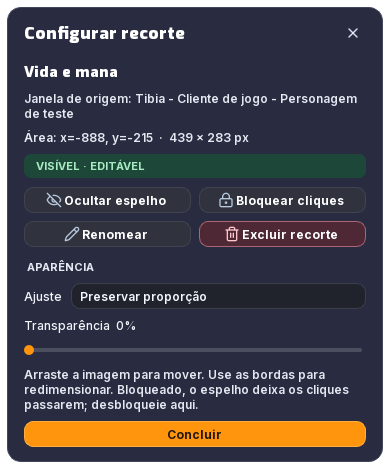
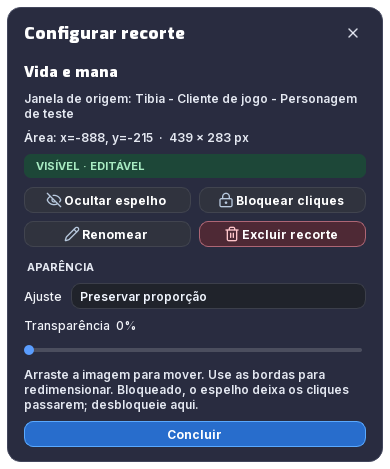
Switch interface accents to blue

Changed region(s): [[0.0615, 0.8955, 0.9538, 0.9552], [0.0615, 0.7164, 0.0923, 0.7761]]

diff --git a/src/tibiaenhanced/ui/theme.py b/src/tibiaenhanced/ui/theme.py
@@ -19,7 +19,7 @@ def app_stylesheet(heading_family: str = "Exo", body_family: str = "Inter") -> s
     QLabel#sectionTitle {{ color: #e9f1ff; font-size: 11pt; }}
     QLabel#selectedTitle {{ color: #ffffff; font-size: 11pt; }}
     QLabel#timerTitle {{ color: #f5f8ff; font-size: 11pt; }}
-    QLabel#timerCountdown {{ color: #ffb454; font-size: 18pt; }}
+    QLabel#timerCountdown {{ color: #7bbcff; font-size: 18pt; }}
     QLabel#mutedText, QLabel#eyebrow {{ color: #e4e8f1; font-weight: 600; }}
     QLabel#eyebrow {{ font-size: 8pt; font-weight: 700; padding-top: 4px; }}
     QLabel#stateBadge {{ font-size: 8pt; font-weight: 700; padding: 5px 9px; }}
@@ -33,7 +33,7 @@ def app_stylesheet(heading_family: str = "Exo", body_family: str = "Inter") -> s
     QFrame#card, QFrame#timerCard {{
         background: #292c40; border: 1px solid #34374a; border-radius: 10px;
     }}
-    QFrame#timerCard {{ border-left: 3px solid #ff940d; }}
+    QFrame#timerCard {{ border-left: 3px solid #5aa9ff; }}
     QFrame#dialogSurface {{ background: #292c40; border: 1px solid #42465c; border-radius: 14px; }}
     QFrame#dialogBody, QFrame#dialogHeader {{ background: transparent; border: 0; }}
     QLabel#dialogTitle {{ color: #ffffff; font-family: "{heading_family}"; font-size: 13pt; font-weight: 900; }}
@@ -49,15 +49,15 @@ def app_stylesheet(heading_family: str = "Exo", body_family: str = "Inter") -> s
     }}
     QPushButton:hover, QToolButton:hover {{ background: #3d404d; border-color: #666978; }}
     QPushButton:pressed, QToolButton:pressed {{ background: #292c36; }}
-    QPushButton:focus, QToolButton:focus {{ border: 1px solid #ff940d; }}
+    QPushButton:focus, QToolButton:focus {{ border: 1px solid #78bcff; }}
     QPushButton:disabled, QToolButton:disabled {{
         color: #788da5; background: #1a283b; border-color: #2b3a4e;
     }}
     QPushButton#primaryButton {{
-        color: #21180d; background: #ff940d; border-color: #ffad40; font-weight: 700;
+        color: #ffffff; background: #286dcc; border-color: #5aa9ff; font-weight: 700;
     }}
-    QPushButton#primaryButton:hover {{ background: #ffac3d; }}
-    QPushButton#primaryButton:disabled {{ color: #637a89; background: #2c5868; border-color: #3b6a78; }}
+    QPushButton#primaryButton:hover {{ background: #327ee4; border-color: #8dc8ff; }}
+    QPushButton#primaryButton:disabled {{ color: #91a6c0; background: #304662; border-color: #3c5677; }}
     QPushButton#dangerButton {{ color: #ffffff; background: #4e2935; border-color: #ad6675; }}
     QPushButton#dangerButton:hover {{ background: #573241; border-color: #a95a69; }}
     QPushButton#chromeButton, QPushButton#chromeCloseButton {{
@@ -75,7 +75,7 @@ def app_stylesheet(heading_family: str = "Exo", body_family: str = "Inter") -> s
     QComboBox, QLineEdit, QSpinBox, QKeySequenceEdit {{ font-weight: 600; }}
     QSpinBox::up-button, QSpinBox::down-button {{ width: 0; border: 0; }}
     QComboBox:hover, QLineEdit:hover, QSpinBox:hover, QKeySequenceEdit:hover {{ border-color: #56718d; }}
-    QComboBox:focus, QLineEdit:focus, QSpinBox:focus, QKeySequenceEdit:focus {{ border: 1px solid #ff940d; }}
+    QComboBox:focus, QLineEdit:focus, QSpinBox:focus, QKeySequenceEdit:focus {{ border: 1px solid #78bcff; }}
     QComboBox:disabled, QLineEdit:disabled, QSpinBox:disabled {{ color: #7d90a6; background: #182536; }}
     QComboBox::drop-down {{ border: 0; width: 25px; }}
     QComboBox QAbstractItemView {{
@@ -87,16 +87,16 @@ def app_stylesheet(heading_family: str = "Exo", body_family: str = "Inter") -> s
         width: 16px; height: 16px; background: #101c2d;
         border: 1px solid #52708b; border-radius: 5px;
     }}
-    QCheckBox::indicator:hover {{ border-color: #ff940d; }}
-    QCheckBox::indicator:checked {{ background: #ff940d; border-color: #ffad40; }}
+    QCheckBox::indicator:hover {{ border-color: #78bcff; }}
+    QCheckBox::indicator:checked {{ background: #286dcc; border-color: #78bcff; }}
 
     QSlider {{ background: transparent; min-height: 16px; max-height: 16px; }}
     QSlider::groove:horizontal {{ height: 4px; background: #484b59; border: 0; border-radius: 2px; }}
-    QSlider::sub-page:horizontal {{ background: #ff940d; border: 0; border-radius: 2px; margin: 6px 0; }}
+    QSlider::sub-page:horizontal {{ background: #5aa9ff; border: 0; border-radius: 2px; margin: 6px 0; }}
     QSlider::add-page:horizontal {{ background: #484b59; border: 0; border-radius: 2px; margin: 6px 0; }}
     QSlider::handle:horizontal {{
         width: 10px; margin: -4px 0; border-radius: 6px;
-        background: #ff9b23; border: 1px solid #ff940d;
+        background: #5aa9ff; border: 1px solid #78bcff;
     }}
     QSlider::handle:horizontal:hover {{ background: #ffffff; border-color: #a6efff; }}
     QSlider:disabled::sub-page:horizontal {{ background: #3b6475; }}
@@ -127,8 +127,8 @@ def app_stylesheet(heading_family: str = "Exo", body_family: str = "Inter") -> s
         padding: 5px 10px; margin: 2px 3px 3px 3px; min-width: 68px;
     }}
     QTabBar::tab:hover {{ background: #263b55; color: #f1f7ff; }}
-    QTabBar::tab:selected {{ color: #ffab43; background: #35313a; border-color: #ff940d; font-weight: 700; }}
-    QTabBar::tab:focus {{ border: 1px solid #ff940d; }}
+    QTabBar::tab:selected {{ color: #c9e5ff; background: #233650; border-color: #5aa9ff; font-weight: 700; }}
+    QTabBar::tab:focus {{ border: 1px solid #78bcff; }}
     QStatusBar {{ color: #9599a5; background: transparent; border-top: 1px solid #30333b; font-size: 8pt; }}
     QStatusBar::item {{ border: 0; }}
     QMenu {{ color: #eaf3ff; background: #17243a; border: 1px solid #405672; padding: 5px; }}

diff --git a/src/tibiaenhanced/ui/audio_panel.py b/src/tibiaenhanced/ui/audio_panel.py
@@ -108,7 +108,7 @@ class TimerDialog(StyledDialog):
         cancel.clicked.connect(self.reject)
         save = QPushButton("Salvar")
         save.setObjectName("primaryButton")
-        save.setIcon(icon("plus", "#092035", 15))
+        save.setIcon(icon("plus", "#ffffff", 15))
         save.clicked.connect(self._validate)
         actions.addWidget(cancel)
         actions.addWidget(save)
@@ -281,19 +281,19 @@ class TimerCard(QFrame):
         if self.timer.running:
             self.status.setText("Em andamento")
             self.start_button.setText("Pausar")
-            self.start_button.setIcon(icon("pause", "#092035", 15))
+            self.start_button.setIcon(icon("pause", "#ffffff", 15))
         elif self.timer.finished:
             self.status.setText("Concluído")
             self.start_button.setText("Iniciar")
-            self.start_button.setIcon(icon("play", "#092035", 15))
+            self.start_button.setIcon(icon("play", "#ffffff", 15))
         elif self.timer.remaining() < self.timer.duration_seconds:
             self.status.setText("Pausado")
             self.start_button.setText("Retomar")
-            self.start_button.setIcon(icon("play", "#092035", 15))
+            self.start_button.setIcon(icon("play", "#ffffff", 15))
         else:
             self.status.setText("Pronto")
             self.start_button.setText("Iniciar")
-            self.start_button.setIcon(icon("play", "#092035", 15))
+            self.start_button.setIcon(icon("play", "#ffffff", 15))
 
 
 class AudioPanel(QWidget):
@@ -312,7 +312,7 @@ class AudioPanel(QWidget):
         heading.addStretch()
         create = QPushButton("Novo timer")
         create.setObjectName("primaryButton")
-        create.setIcon(icon("plus", "#092035", 16))
+        create.setIcon(icon("plus", "#ffffff", 16))
         create.setIconSize(QSize(16, 16))
         create.clicked.connect(self._create)
         heading.addWidget(create)

diff --git a/src/tibiaenhanced/ui/capture_panel.py b/src/tibiaenhanced/ui/capture_panel.py
@@ -61,7 +61,7 @@ class CapturePanel(QWidget):
         source_row.addWidget(refresh_button)
         self.add_button = QPushButton("Novo recorte")
         self.add_button.setObjectName("primaryButton")
-        self.add_button.setIcon(icon("plus", "#092035", 16))
+        self.add_button.setIcon(icon("plus", "#ffffff", 16))
         self.add_button.setIconSize(QSize(16, 16))
         self.add_button.setToolTip("Escolher uma área e criar um espelho")
         self.add_button.clicked.connect(self.add_mirror)

diff --git a/tests/test_modern_ui.py b/tests/test_modern_ui.py
@@ -73,7 +73,7 @@ class ModernUiTests(unittest.TestCase):
         self.assertIsInstance(capture.details_dialog, StyledDialog)
         self.assertTrue(capture.details_dialog.windowFlags() & Qt.WindowType.FramelessWindowHint)
         self.assertIsInstance(capture.transparency_slider, CompactSlider)
-        self.assertEqual(capture.transparency_slider.accent, "#ff940d")
+        self.assertEqual(capture.transparency_slider.accent, "#5a9dff")
         panel.close()
         capture.close()
 

diff --git a/src/tibiaenhanced/ui/main_window.py b/src/tibiaenhanced/ui/main_window.py
@@ -137,7 +137,7 @@ class MainWindow(QMainWindow):
         self.statusBar().setSizeGripEnabled(False)
         self.author_link = QLabel(
             'Feito por <a href="https://github.com/CaioMascarenhas" '
-            'style="color: #ff9b31; text-decoration: none;">Mascarenhas</a>'
+            'style="color: #8dc8ff; text-decoration: none;">Mascarenhas</a>'
         )
         self.author_link.setObjectName("footerCredit")
         self.author_link.setOpenExternalLinks(True)

diff --git a/src/tibiaenhanced/ui/design.py b/src/tibiaenhanced/ui/design.py
@@ -66,7 +66,7 @@ class InteractionCursors(QObject):
 class CompactSlider(QSlider):
     """Trilho arredondado, mantendo teclado, arraste e acessibilidade do Qt."""
 
-    def __init__(self, orientation, parent=None, *, accent: str = "#ff940d") -> None:
+    def __init__(self, orientation, parent=None, *, accent: str = "#5a9dff") -> None:
         super().__init__(orientation, parent)
         self.accent = accent
 

diff --git a/docs/modern-ui.md b/docs/modern-ui.md
@@ -1,11 +1,11 @@
 # Redesign visual da issue #9
 
-Interface PySide6 inspirada na densidade visual da referência TibiaVision: fundo grafite, cards violeta escuro, destaques laranja e controles compactos. A janela abre em 680 × 460 e pode ser reduzida a 560 × 380, com rolagem do conteúdo.
+Interface PySide6 inspirada na densidade visual da referência TibiaVision: fundo grafite, cards violeta escuro, destaques azuis e controles compactos. A janela abre em 680 × 460 e pode ser reduzida a 560 × 380, com rolagem do conteúdo.
 
 - **Exo 900** nos títulos e **Inter** nos textos e controles, distribuídas localmente com suas licenças OFL.
 - Ícones **Lucide** com tooltips e nomes acessíveis. Botões, abas, combos e sliders usam cursor de mão quando habilitados.
 - Recortes em grade, com mostrar/ocultar, bloqueio, exclusão e opacidade diretamente no card. O lápis abre as configurações detalhadas.
-- Temporizadores em grade adaptável, com iniciar/pausar, volume, loop, teste de som e edição do atalho. Os sliders de áudio usam azul.
+- Temporizadores em grade adaptável, com iniciar/pausar, volume, loop, teste de som e edição do atalho. Os sliders de áudio e de recortes usam tons de azul.
 - Sliders com trilho fino arredondado, mantendo interação nativa por teclado e arraste.
 - Barra de título própria com ícone, minimizar, maximizar e fechar; bordas redimensionáveis.
 - Rodapé “Feito por Mascarenhas”, com link para o GitHub do autor.
